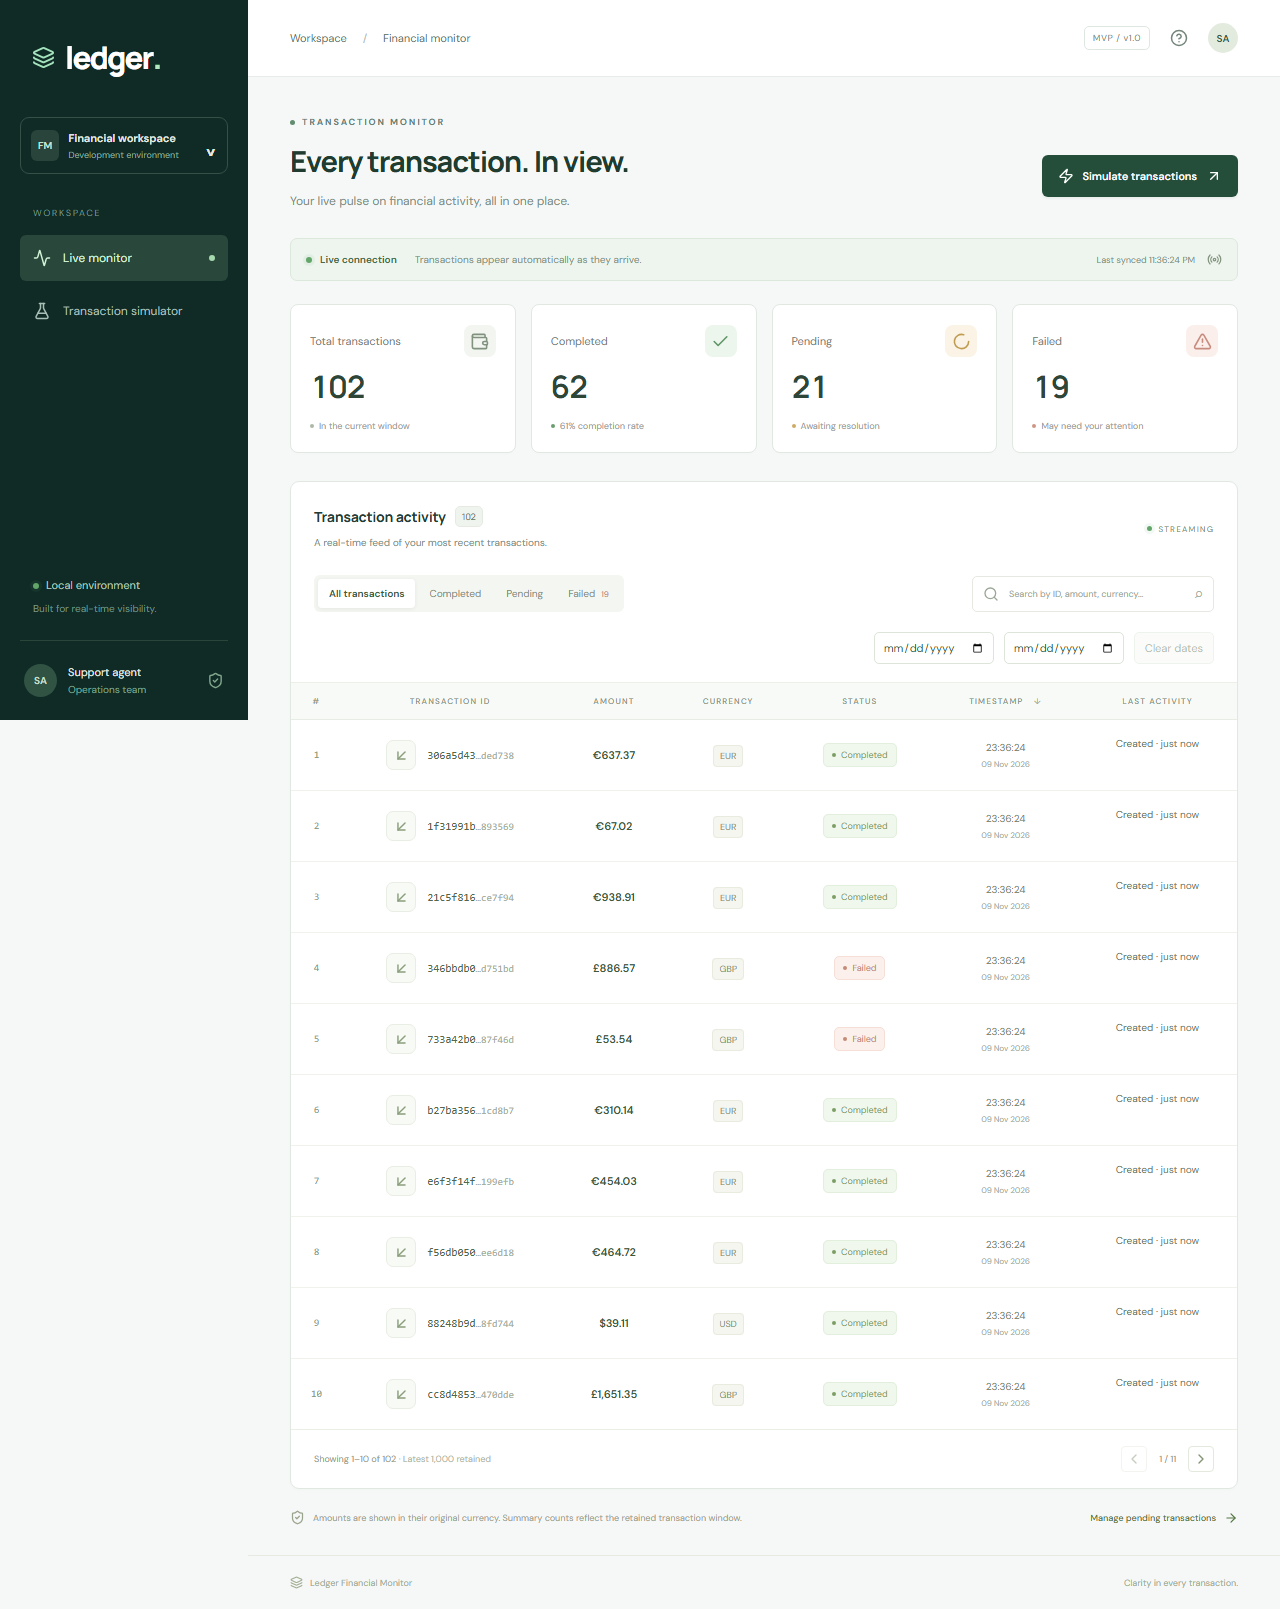
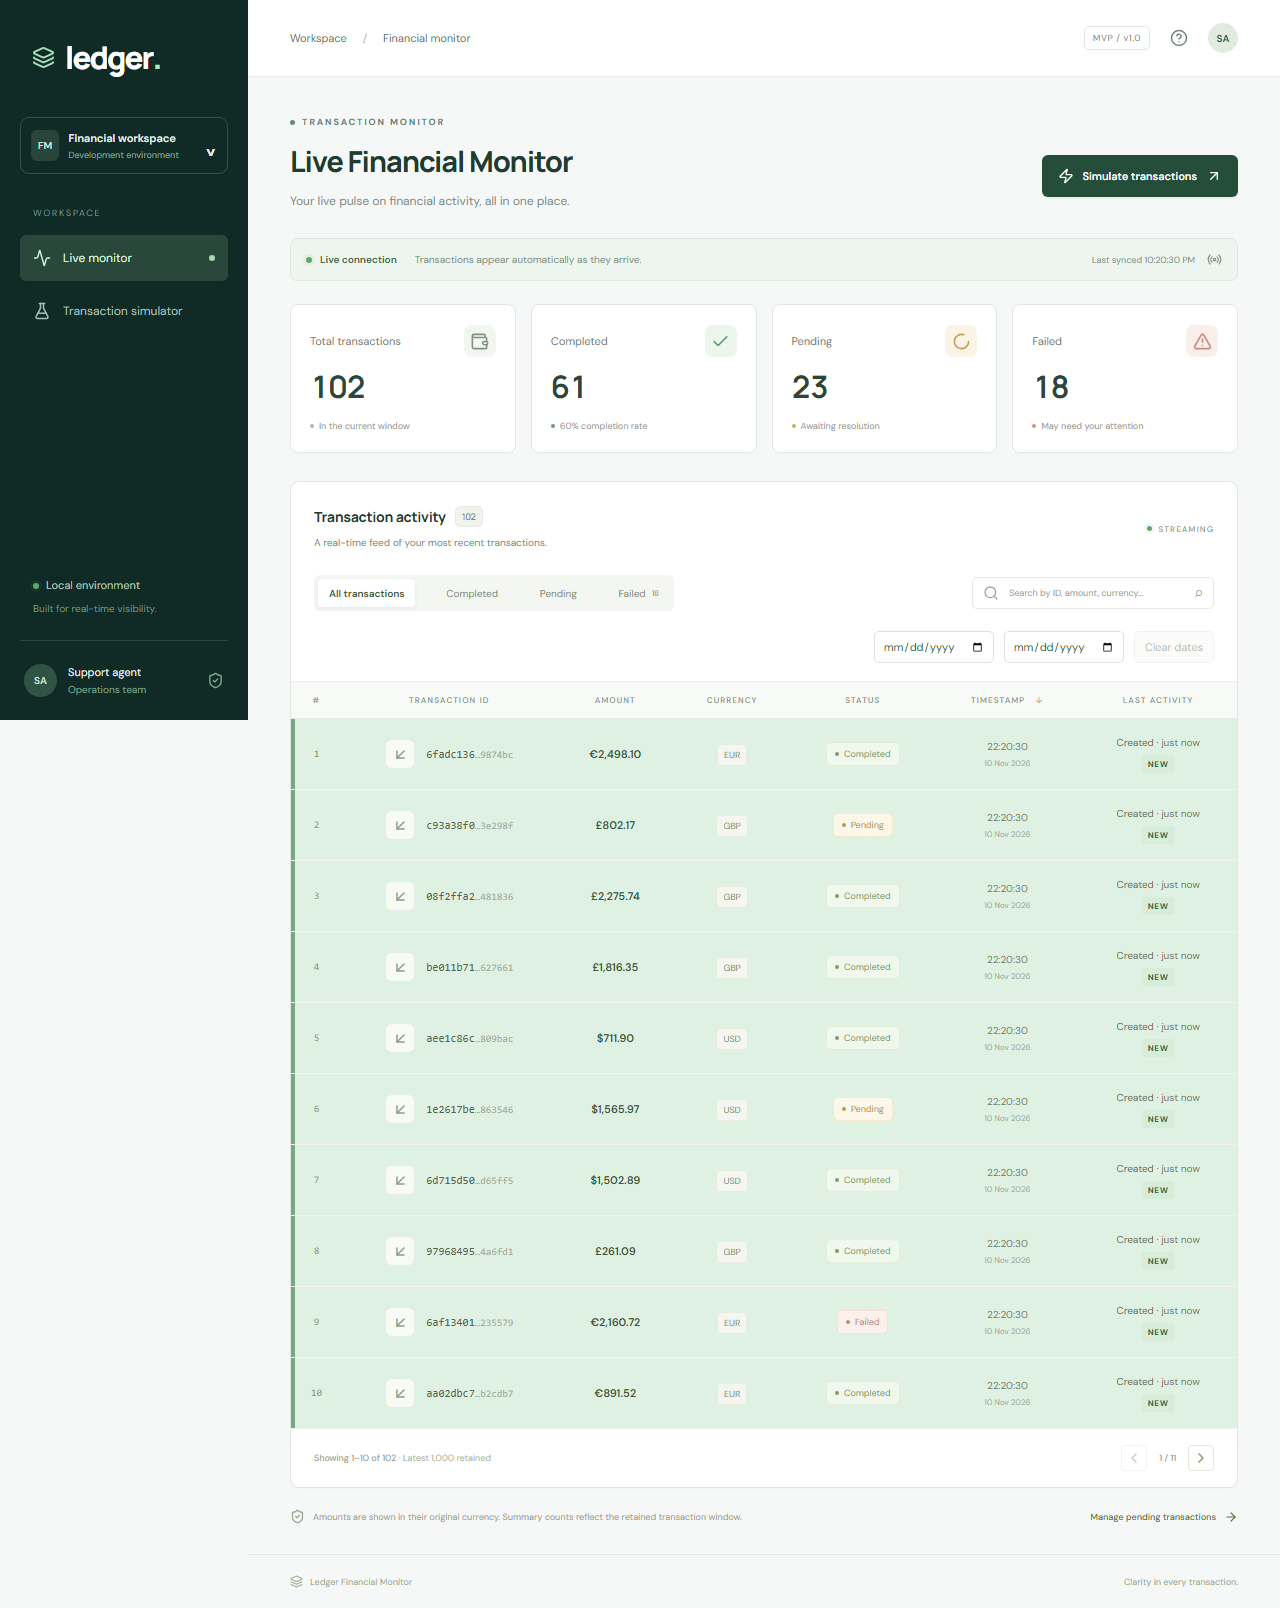
Real-Time Financial Monitor

diff --git a/frontend/src/pages/Simulator.tsx b/frontend/src/pages/Simulator.tsx
@@ -167,7 +167,7 @@ export function Simulator() {
       </div>
       <div className="page-heading">
         <div>
-          <h1>Bring your monitor to life.</h1>
+          <h1>Transaction Simulator</h1>
           <p>
             Create a transaction or send a burst of activity to test the flow.
           </p>
@@ -262,7 +262,7 @@ export function Simulator() {
           </span>
           <span className="mini-label">PUT IT TO THE TEST</span>
           <h2>
-            A little activity.
+            A little activity,
             <br />
             Or a hundred at once.
           </h2>

diff --git a/frontend/e2e/monitor.spec.ts b/frontend/e2e/monitor.spec.ts
@@ -21,7 +21,7 @@ test("empty dashboard connects over a real websocket and works on mobile", async
   });
   await page.setViewportSize({ width: 390, height: 844 });
   await expect(
-    page.getByRole("heading", { name: "Every transaction. In view." }),
+    page.getByRole("heading", { name: "Live Financial Monitor" }),
   ).toBeVisible();
   expect(
     await page.evaluate(

diff --git a/frontend/src/pages/Monitor.tsx b/frontend/src/pages/Monitor.tsx
@@ -72,7 +72,7 @@ export function Monitor() {
       </div>
       <div className="page-heading">
         <div>
-          <h1>Every transaction. In view.</h1>
+          <h1>Live Financial Monitor</h1>
           <p>Your live pulse on financial activity, all in one place.</p>
         </div>
         <NavLink className="button primary" to="/add">

diff --git a/README.md b/README.md
@@ -378,9 +378,3 @@ Keep deployment credentials and TLS settings in configuration or secrets, rather
 - **No data after restart:** expected in Memory mode. Redis mode depends on the Redis instance's persistence and volume.
 - **No animation:** initial snapshots do not animate, and reduced motion disables animation. Keep **All transactions** selected to watch a Pending row change.
 - **Fonts dont load:** the UI falls back to system fonts.
-
-## References
-
-- [SignalR Redis backplane](https://learn.microsoft.com/aspnet/core/signalr/redis-backplane)
-- [SignalR hosting and scale-out](https://learn.microsoft.com/aspnet/core/signalr/scale)
-- [Redis Lua scripting](https://redis.io/docs/latest/develop/programmability/eval-intro/)
